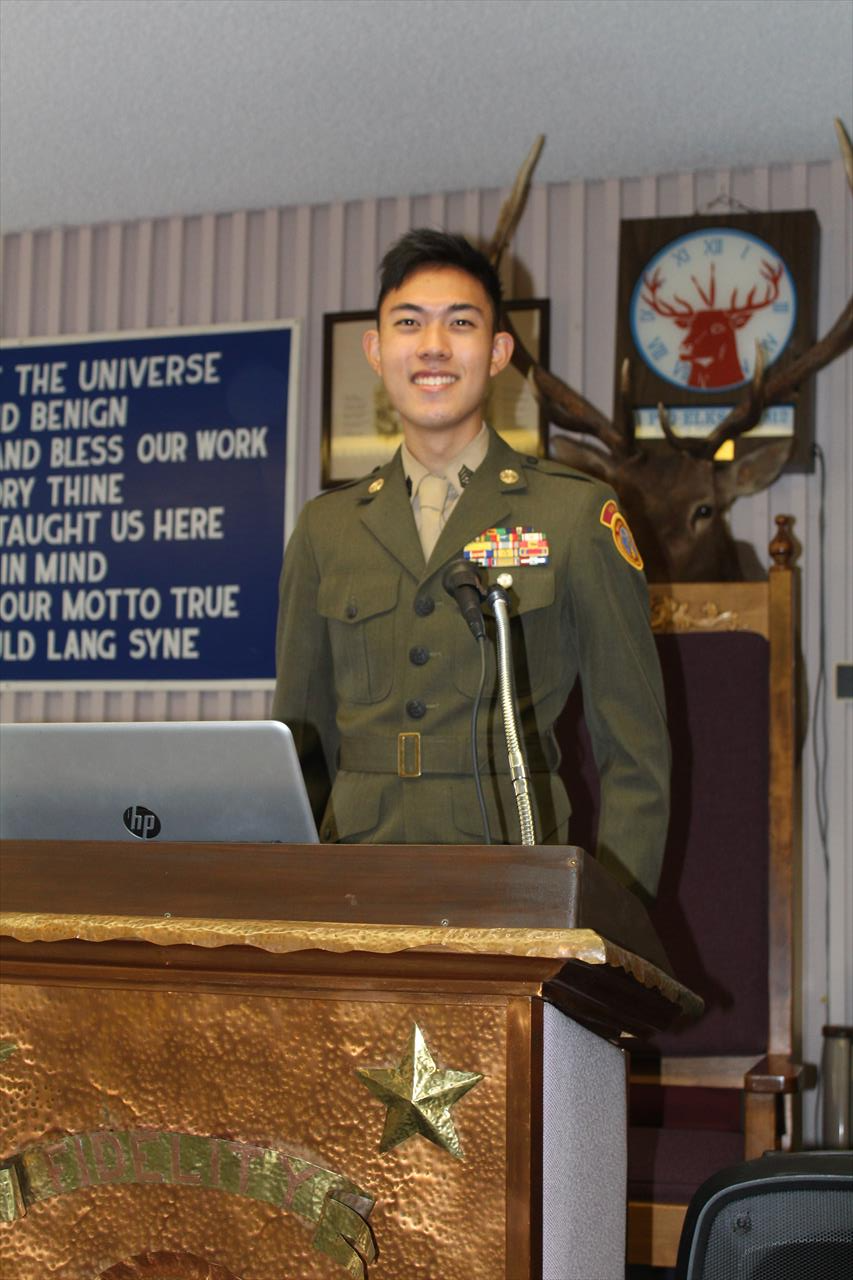
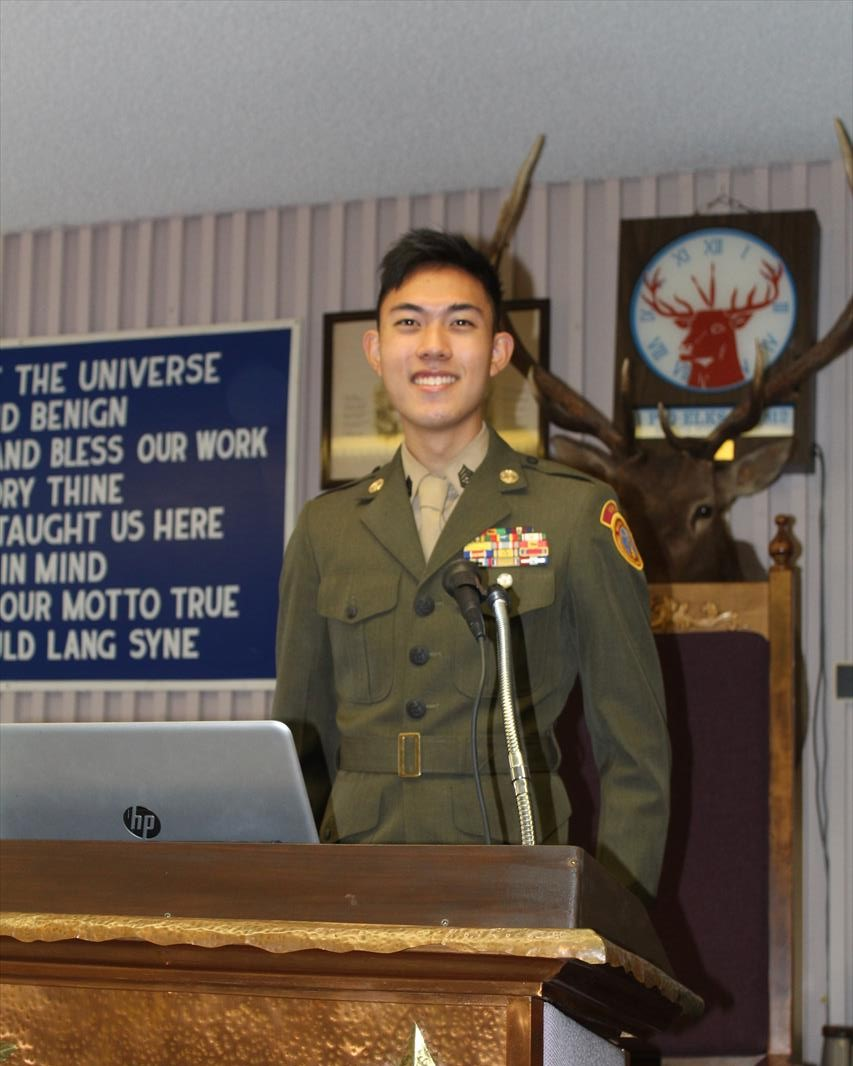
fixed image aspect ratio

diff --git a/index.css b/index.css
@@ -3,14 +3,13 @@ html {
 }
 
 #picSlides {
-   margin-top: 5vh;
-   float: left;
-   width: 100%;
-   height: 580px;
-   object-fit: scale-down;
-   overflow: hidden;
+  margin-top: 5vh;
+  float: left;
+  width: 100%;
+  height: auto;
+  object-fit: scale-down;
+  overflow: hidden;
 }
-  
 
 /* CSS background from alvarotrigo */
 
@@ -52,7 +51,7 @@ html {
   }   
 }
 
-@media only screen and (max-width: 1026px) {
+@media only screen and (max-width: 820px) {
     .text-container {
         display: none;
     }
